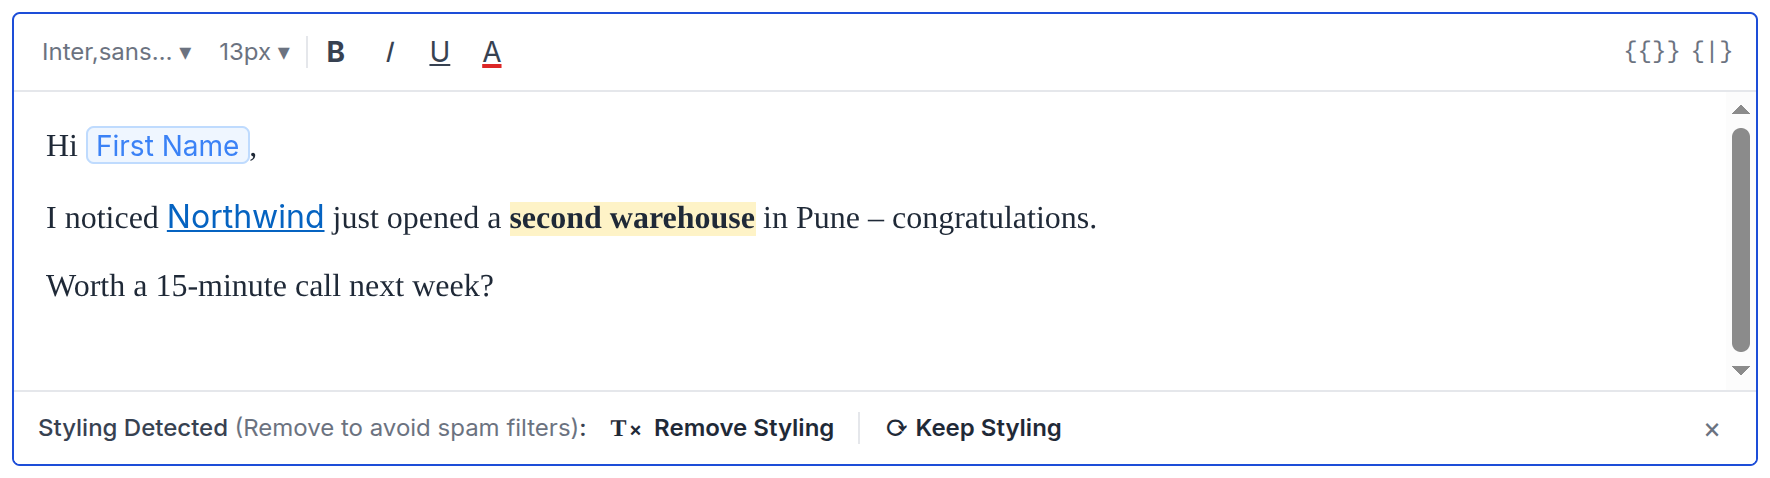
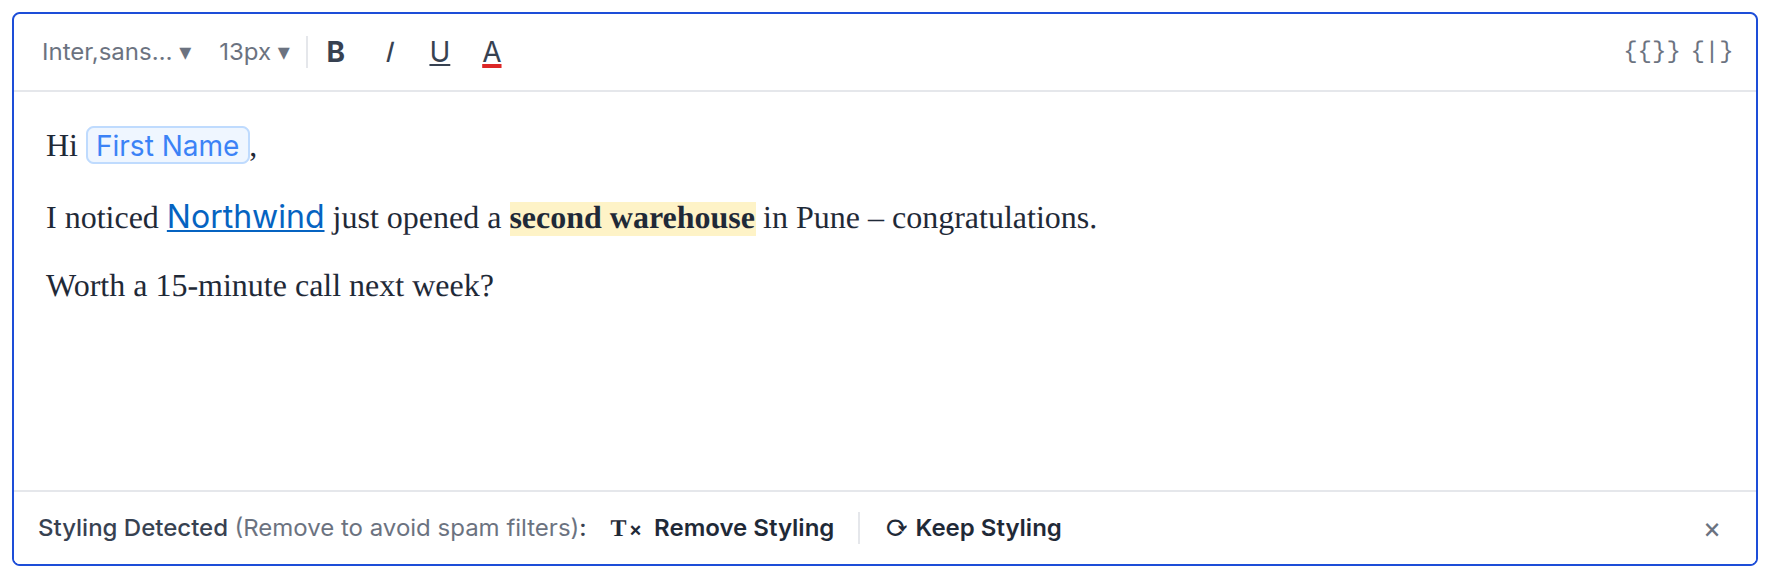
Captions above screens, taller captures, narrow-bar rule
Each caption now leads into its own screen. Editor screens re-captured
without the inner scrollbar. The bar drops its reason, then the badge
label, when the editor is narrow; buttons never wrap.

diff --git a/index.html b/index.html
@@ -155,6 +155,7 @@ tr:hover td{background:var(--bg-secondary)}
   .main{padding:32px 20px 80px}
 }
 </style>
+<style>figure figcaption{margin:0 0 8px}</style>
 </head>
 <body>
 <div class="progress-rail"></div>
@@ -203,7 +204,7 @@ tr:hover td{background:var(--bg-secondary)}
 <li>Replace the Remove Styling Automatically description with: <em>"Removes colors, fonts and other styling, including from pasted content and spintax variants, so emails look human-written and land in the inbox."</em></li>
 <li>Everything else stays as it is.</li>
 </ul>
-<figure><img src="screens/01-safety-settings.png" style="max-width:660px" alt="Safety Settings with Remove Styling Automatically on and its new one-sentence description." loading="lazy"><figcaption>The new description, highlighted. Nothing else on the card changes.</figcaption></figure>
+<figure><figcaption>The new description, highlighted. Nothing else on the card changes.</figcaption><img src="screens/01-safety-settings.png" style="max-width:660px" alt="Safety Settings with Remove Styling Automatically on and its new one-sentence description." loading="lazy"></figure>
 </section>
 <section id="4-email-editor-prototype-tab-2" class="sec"><div class="sec-head"><span class="sec-num">4</span><h2>Email editor (prototype tab 2)</h2></div>
 
@@ -262,11 +263,11 @@ tr:hover td{background:var(--bg-secondary)}
 </tbody>
 </table></div>
 <p><strong>Screens</strong></p>
-<figure><img src="screens/02-on-paste-removed.png" style="max-width:885px" alt="Setting on: the paste has landed without Word's styling, and the bar reads Styling removed from your paste, with Keep Styling and the badge on the same row." loading="lazy"><figcaption>Setting on, after a Word paste: styling removed as it landed. Bold and the link stay.</figcaption></figure>
-<figure><img src="screens/03-on-keep-setting-off.png" style="max-width:885px" alt="After Keep Styling: Word's styling is back and the bar reads Styling kept. Remove Styling is now off for this sequence, with Undo." loading="lazy"><figcaption>After "Keep Styling": styling restored, the setting is off, and Undo is offered. The badge is gone because the setting is now off.</figcaption></figure>
-<figure><img src="screens/04-off-paste-detected.png" style="max-width:885px" alt="Setting off: the paste keeps Word's styling and the Styling Detected bar shows Remove Styling and Keep Styling." loading="lazy"><figcaption>Setting off, after a Word paste: lands as is, and the Styling Detected bar offers both buttons.</figcaption></figure>
-<figure><img src="screens/05-on-toolbar-removed.png" style="max-width:885px" alt="Setting on: a toolbar colour removed straight away, and the bar reads Styling removed (Remove Styling is on for this sequence) with Keep Styling." loading="lazy"><figcaption>Setting on, toolbar colour: removed straight away, like a paste, with the same bar and Keep Styling.</figcaption></figure>
-<figure><img src="screens/06-text-only.png" style="max-width:885px" alt="Text only: the paste lands as plain text, styling controls are disabled, and the Text only email badge shows." loading="lazy"><figcaption>Text only: plain text, no bar, styling controls disabled.</figcaption></figure>
+<figure><figcaption>Setting on, after a Word paste: styling removed as it landed. Bold and the link stay.</figcaption><img src="screens/02-on-paste-removed.png" style="max-width:885px" alt="Setting on: the paste has landed without Word's styling, and the bar reads Styling removed from your paste, with Keep Styling and the badge on the same row." loading="lazy"></figure>
+<figure><figcaption>After "Keep Styling": styling restored, the setting is off, and Undo is offered. The badge is gone because the setting is now off.</figcaption><img src="screens/03-on-keep-setting-off.png" style="max-width:885px" alt="After Keep Styling: Word's styling is back and the bar reads Styling kept. Remove Styling is now off for this sequence, with Undo." loading="lazy"></figure>
+<figure><figcaption>Setting off, after a Word paste: lands as is, and the Styling Detected bar offers both buttons.</figcaption><img src="screens/04-off-paste-detected.png" style="max-width:885px" alt="Setting off: the paste keeps Word's styling and the Styling Detected bar shows Remove Styling and Keep Styling." loading="lazy"></figure>
+<figure><figcaption>Setting on, toolbar colour: removed straight away, like a paste, with the same bar and Keep Styling.</figcaption><img src="screens/05-on-toolbar-removed.png" style="max-width:885px" alt="Setting on: a toolbar colour removed straight away, and the bar reads Styling removed (Remove Styling is on for this sequence) with Keep Styling." loading="lazy"></figure>
+<figure><figcaption>Text only: plain text, no bar, styling controls disabled.</figcaption><img src="screens/06-text-only.png" style="max-width:885px" alt="Text only: the paste lands as plain text, styling controls are disabled, and the Text only email badge shows." loading="lazy"></figure>
 <p><strong>Actions</strong></p>
 <ul>
 <li><strong>Keep Styling, with the setting on:</strong><ul>
@@ -283,6 +284,7 @@ tr:hover td{background:var(--bg-secondary)}
 <ul>
 <li><strong>What counts as text only:</strong> "Send emails as text only" for all emails, or for step 1 when it is set to first email only.</li>
 <li><strong>The corner badge</strong> ("Styling Removes Automatically" / "Text only email") sits in the bar row, just before <code>×</code>, while a bar is showing. Otherwise it stays in the editor's corner.</li>
+<li><strong>When the bar is too narrow</strong> (the editor is about 790px wide today): "(Remove Styling is on for this sequence)" drops first, then the badge shows only its dot. Buttons and <code>×</code> never shrink or wrap.</li>
 <li><strong><code>⌘⇧V</code> / <code>Ctrl+Shift+V</code></strong> always pastes plain, with no bar.</li>
 </ul>
 </section>
@@ -293,8 +295,8 @@ tr:hover td{background:var(--bg-secondary)}
 <li><strong>Keep Styling in a variant, with the setting on,</strong> turns the setting off for the whole sequence, body included. The "Styling kept" bar and Undo appear in that variant.</li>
 <li><strong>Literal tokens pasted into a variant become chips.</strong></li>
 </ul>
-<figure><img src="screens/07-spintax-removed.png" style="max-width:656px" alt="Spintax variant 1 after a Word paste with the setting on: styling removed, and the bar inside the variant field with Keep Styling." loading="lazy"><figcaption>Setting on, paste into variant 1: the same "removed" bar, inside the variant field.</figcaption></figure>
-<figure><img src="screens/08-spintax-kept.png" style="max-width:656px" alt="Spintax variant 1 after Keep Styling: styling restored, and the bar reads Styling kept. Remove Styling is now off for this sequence, with Undo." loading="lazy"><figcaption>After "Keep Styling" in a variant: the setting turns off for the whole sequence, body included.</figcaption></figure>
+<figure><figcaption>Setting on, paste into variant 1: the same "removed" bar, inside the variant field.</figcaption><img src="screens/07-spintax-removed.png" style="max-width:656px" alt="Spintax variant 1 after a Word paste with the setting on: styling removed, and the bar inside the variant field with Keep Styling." loading="lazy"></figure>
+<figure><figcaption>After "Keep Styling" in a variant: the setting turns off for the whole sequence, body included.</figcaption><img src="screens/08-spintax-kept.png" style="max-width:656px" alt="Spintax variant 1 after Keep Styling: styling restored, and the bar reads Styling kept. Remove Styling is now off for this sequence, with Undo." loading="lazy"></figure>
 
 </section>
 <section id="6-acceptance-criteria" class="sec"><div class="sec-head"><span class="sec-num">6</span><h2>Acceptance criteria</h2></div>

diff --git a/prototype/index.html b/prototype/index.html
@@ -110,6 +110,11 @@
     .badge:hover { background:var(--sh-gray-50); }
     .badge-dot { width:8px; height:8px; border-radius:50%; background:#34d399; }
     .badge-inline { position:static; flex-shrink:0; padding:0 4px; }
+    /* narrow editors: the reason drops first, then the badge keeps only its dot; buttons and x never shrink */
+    .sbar { container-type:inline-size; }
+    .sbar .sbar-btn, .sbar .lnk, .sbar .xbtn { flex-shrink:0; }
+    @container (max-width: 780px) { .sbar-why { display:none; } }
+    @container (max-width: 640px) { .badge-inline .badge-txt { display:none; } }
     .badge-txt { font-size:12px; line-height:16px; color:#9ca3af; white-space:nowrap; }
     .pop { position:absolute; right:8px; bottom:36px; width:300px; padding:12px; background:#fff; border:1px solid var(--sh-border-default);
            border-radius:var(--sh-radius-md); box-shadow:0 16px 48px -4px rgba(4,21,76,0.18),0 4px 24px 0 rgba(4,21,76,0.08); z-index:50;
@@ -290,7 +295,7 @@
             </sc-if>
             <sc-if value="{{c.barRemoved}}" hint-placeholder-val="{{ false }}">
               <div class="sbar">
-                <span class="sbar-ok"><svg width="14" height="14" viewBox="0 0 24 24" fill="none" style="color:var(--sh-green-700)"><path fill-rule="evenodd" clip-rule="evenodd" d="M20.71 6.3a1 1 0 0 1 0 1.41l-10 10a1 1 0 0 1-1.42 0l-5-5a1 1 0 1 1 1.42-1.41L10 15.59l9.29-9.3a1 1 0 0 1 1.42 0Z" fill="currentColor"/></svg>{{c.removedLbl}} <span style="font-weight:400;color:var(--sh-fg-secondary)">(Remove Styling is on for this sequence):</span></span>
+                <span class="sbar-ok"><svg width="14" height="14" viewBox="0 0 24 24" fill="none" style="color:var(--sh-green-700)"><path fill-rule="evenodd" clip-rule="evenodd" d="M20.71 6.3a1 1 0 0 1 0 1.41l-10 10a1 1 0 0 1-1.42 0l-5-5a1 1 0 1 1 1.42-1.41L10 15.59l9.29-9.3a1 1 0 0 1 1.42 0Z" fill="currentColor"/></svg><span>{{c.removedLbl}}<span class="sbar-why" style="font-weight:400;color:var(--sh-fg-secondary)"> (Remove Styling is on for this sequence)</span>:</span></span>
                 <button class="sbar-btn" onClick="{{c.keep}}">&#10227; Keep Styling</button>
                 <div style="flex-grow:1"></div>
                 <sc-if value="{{c.badgeOn}}" hint-placeholder-val="{{ true }}"><span class="badge badge-inline"><span class="badge-dot"></span><span class="badge-txt">{{c.badgeText}}</span></span></sc-if>
@@ -370,7 +375,7 @@ Worth a 15-minute call next week?</p></sc-if>
             </sc-if>
             <sc-if value="{{s.barRemoved}}" hint-placeholder-val="{{ false }}">
               <div class="sbar">
-                <span class="sbar-ok"><svg width="14" height="14" viewBox="0 0 24 24" fill="none" style="color:var(--sh-green-700)"><path fill-rule="evenodd" clip-rule="evenodd" d="M20.71 6.3a1 1 0 0 1 0 1.41l-10 10a1 1 0 0 1-1.42 0l-5-5a1 1 0 1 1 1.42-1.41L10 15.59l9.29-9.3a1 1 0 0 1 1.42 0Z" fill="currentColor"/></svg>{{s.removedLbl}} <span style="font-weight:400;color:var(--sh-fg-secondary)">(Remove Styling is on for this sequence):</span></span>
+                <span class="sbar-ok"><svg width="14" height="14" viewBox="0 0 24 24" fill="none" style="color:var(--sh-green-700)"><path fill-rule="evenodd" clip-rule="evenodd" d="M20.71 6.3a1 1 0 0 1 0 1.41l-10 10a1 1 0 0 1-1.42 0l-5-5a1 1 0 1 1 1.42-1.41L10 15.59l9.29-9.3a1 1 0 0 1 1.42 0Z" fill="currentColor"/></svg><span>{{s.removedLbl}}<span class="sbar-why" style="font-weight:400;color:var(--sh-fg-secondary)"> (Remove Styling is on for this sequence)</span>:</span></span>
                 <button class="sbar-btn" onClick="{{s.keep}}">&#10227; Keep Styling</button>
                 <div style="flex-grow:1"></div>
                 <button class="xbtn" onClick="{{s.dismiss}}">&times;</button>

diff --git a/PRD.md b/PRD.md
@@ -89,6 +89,7 @@ In this section, **"the setting"** means the sequence's Remove Styling Automatic
 
 - **What counts as text only:** "Send emails as text only" for all emails, or for step 1 when it is set to first email only.
 - **The corner badge** ("Styling Removes Automatically" / "Text only email") sits in the bar row, just before `×`, while a bar is showing. Otherwise it stays in the editor's corner.
+- **When the bar is too narrow** (the editor is about 790px wide today): "(Remove Styling is on for this sequence)" drops first, then the badge shows only its dot. Buttons and `×` never shrink or wrap.
 - **`⌘⇧V` / `Ctrl+Shift+V`** always pastes plain, with no bar.
 
 ## 5. Spintax editor (prototype tab 3)
